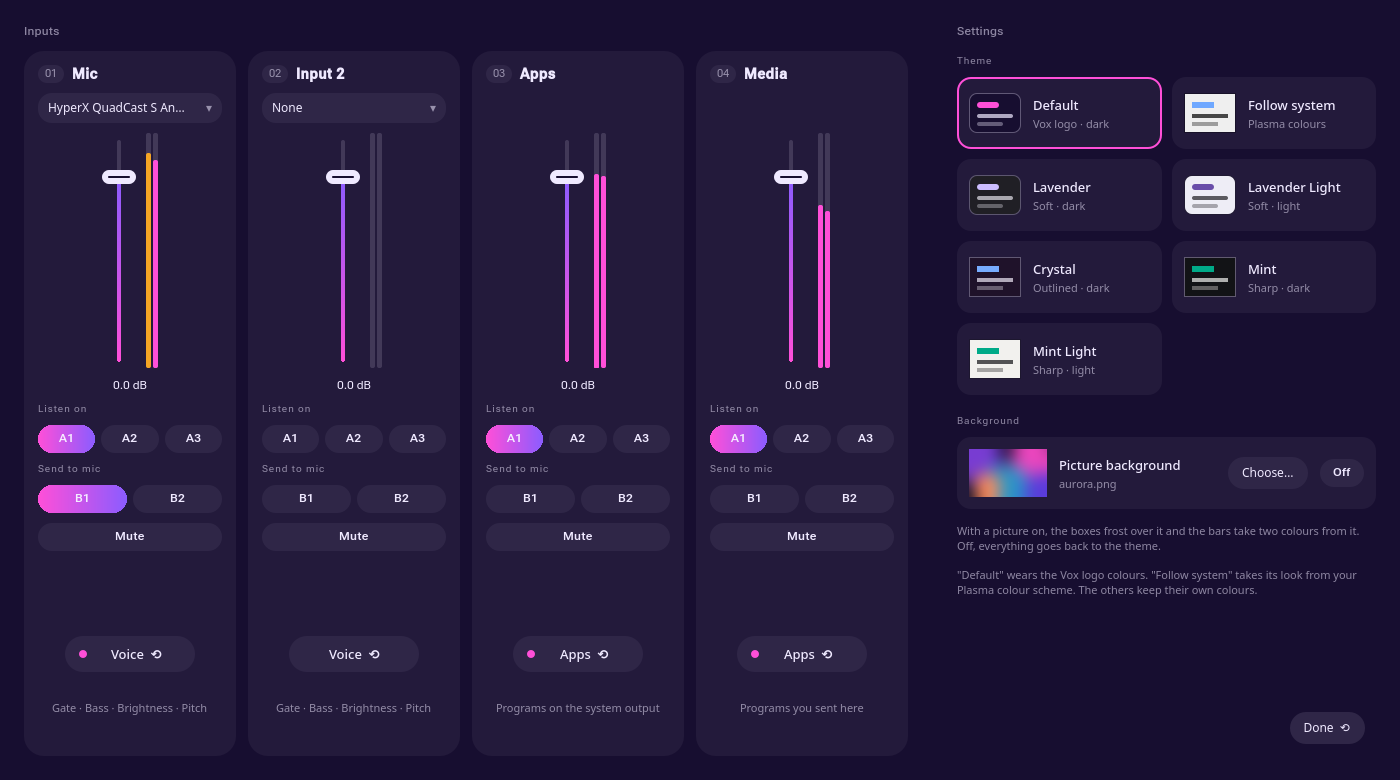
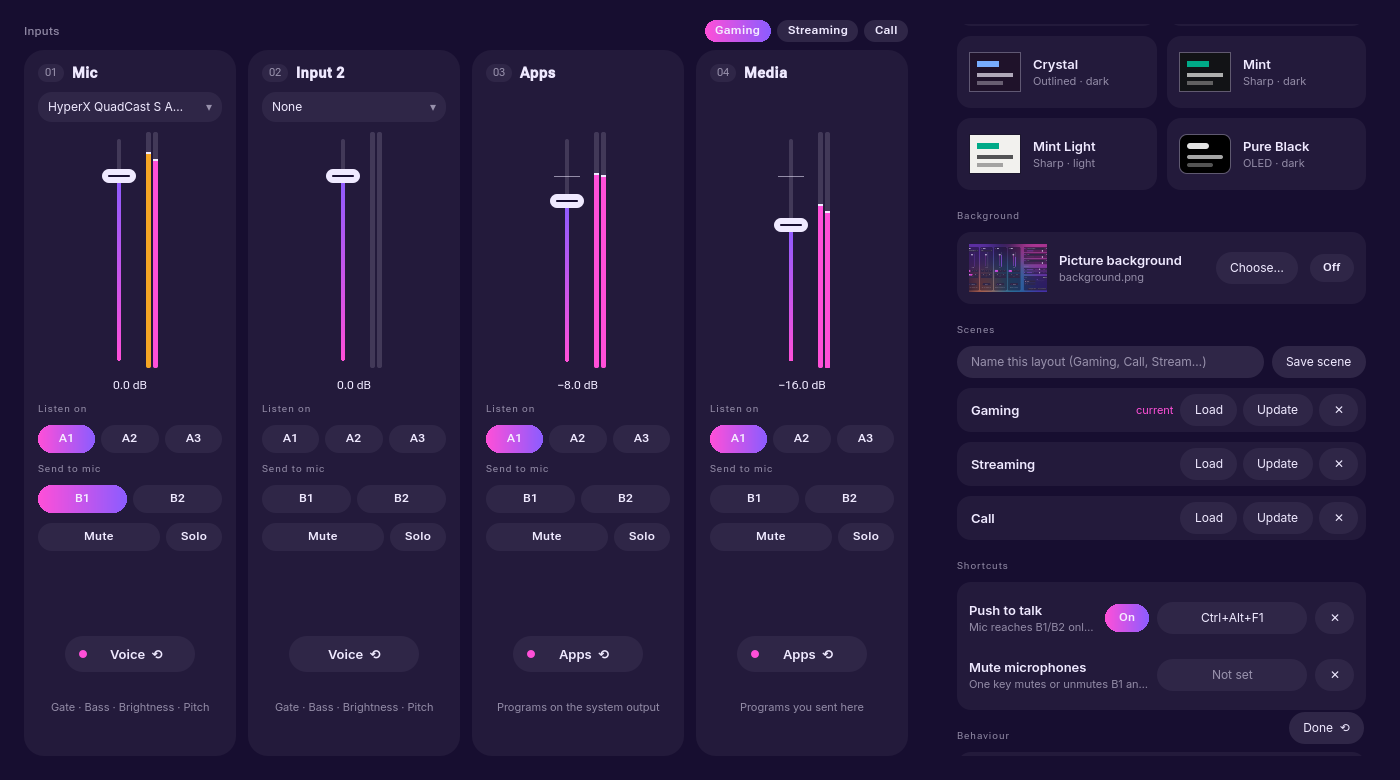
README: scenes, tray, shortcuts, ducking, solo, program routing, Pure Black; fresh screenshots

diff --git a/README.md b/README.md
@@ -26,6 +26,12 @@ bars take their colours from it.
 | --- | --- |
 | ![Crystal theme](docs/screenshots/crystal.png) | ![Mint theme](docs/screenshots/mint.png) |
 
+**Pure Black** is for OLED screens: a true black window, every box drawn as a thin outline, and a grey
+gradient instead of colour. **Follow system** keeps the default look but takes its colours from your
+Plasma colour scheme and follows accent changes live.
+
+![Pure Black theme](docs/screenshots/pureblack.png)
+
 (Screenshots use made-up programs and levels.)
 
 ## How it works
@@ -41,8 +47,37 @@ bars take their colours from it.
   Pick one as the microphone in Discord, OBS, or any other program.
 - On each strip, light up **A** buttons to hear it and **B** buttons to send it into a mic.
 - Mic strips have a **noise gate** (the threshold slider sets the level it opens at), **bass**,
-  **brightness** and **pitch**.
+  **brightness** and **pitch**. With pitch on, **Hear my natural voice** lets your A outputs play
+  you without the pitch delay while the B mics still carry the pitched voice.
+- **Duck Apps & Media** (back of a mic strip): while you talk, Apps and Media dip by an amount you
+  set, on the B mics and optionally on A, and come back a moment after you stop.
+- Each strip has **Solo**: while any strip is soloed, A1–A3 play only the soloed strips. The B mics
+  are never affected, and solo isn't saved.
+- Meters show a **peak-hold** tick and a **clip light** that stays lit until you click the meter.
 - The Apps strip warns you if voice chat is playing through it and also going to a mic.
+
+### Programs
+
+Flip Apps or Media to see the programs using it, each with its own mute. **Drag a program onto the
+Apps or Media strip** to send it there. Programs playing straight to hardware show under
+"Playing elsewhere" so you can pull them in.
+
+### Scenes
+
+Settings → Scenes saves every strip and bus as they are (devices, routes, levels, voice tools)
+under a name. The first five show as buttons above the inputs, and all of them are in the tray
+menu. Loading one leaves your theme and background alone.
+
+### Tray and shortcuts
+
+- **Tray icon:** show or hide the window, mute the mics, switch scenes, quit. Turn on *Keep running
+  in the tray* (Settings → Behaviour) and closing the window leaves the mixer running.
+- **Push to talk:** while it's on, your mic strips only reach B1 and B2 while its key is held. You
+  still hear yourself on A, and Apps and Media are never gated.
+- **Mute microphones:** one key mutes or unmutes B1 and B2.
+- Both keys are yours to choose (Settings → Shortcuts: click the box and press the keys you want).
+  They are global shortcuts handled by KDE's shortcut service, so they work while another program
+  has focus, also show up in System Settings → Shortcuts, and need KDE Plasma.
 
 Feedback loops can't be wired from the UI: the virtual devices never appear as inputs or
 A outputs, and all of the mixer's own streams share a PipeWire link group.
@@ -68,11 +103,16 @@ forks or derived versions, or sell it. See [LICENSE](LICENSE).
 
 ## Build and run
 
-Needs Rust, Qt 6 (base, declarative), PipeWire development files and clang.
+Needs Rust, Qt 6 (base, declarative, and Widgets for the tray icon), PipeWire development files,
+SoundTouch and clang.
 
     cargo run --release
 
-Settings are saved to `~/.config/vox-obscurus/settings.json`.
+Settings are saved to `~/.config/vox-obscurus/settings.json` (with a `.bak` of the last good copy,
+so a damaged file never wipes your layout).
+
+If a device (a USB headset, say) isn't there when Vox starts, or is unplugged and plugged back in,
+Vox opens its stream again by itself when the device returns.
 
 ## Developing
 
@@ -83,7 +123,9 @@ Settings are saved to `~/.config/vox-obscurus/settings.json`.
 ## Layout
 
 - `src/engine.rs`: PipeWire streams, virtual devices, mixing and routing (runs on its own thread)
-- `src/dsp.rs`: noise gate and shelf filters
-- `src/settings.rs`: the saved layout
+- `src/dsp.rs`: noise gate, shelf filters and the pitch stage (SoundTouch)
+- `src/settings.rs`: the saved layout and scenes
+- `src/shortcuts.rs`: global shortcuts through KDE's KGlobalAccel (D-Bus)
 - `src/bridge.rs`: the `Mixer` object QML talks to (JSON in, JSON out)
+- `src/qt_shim.cpp`: creates the `QApplication` the tray icon needs
 - `qml/`: the interface
